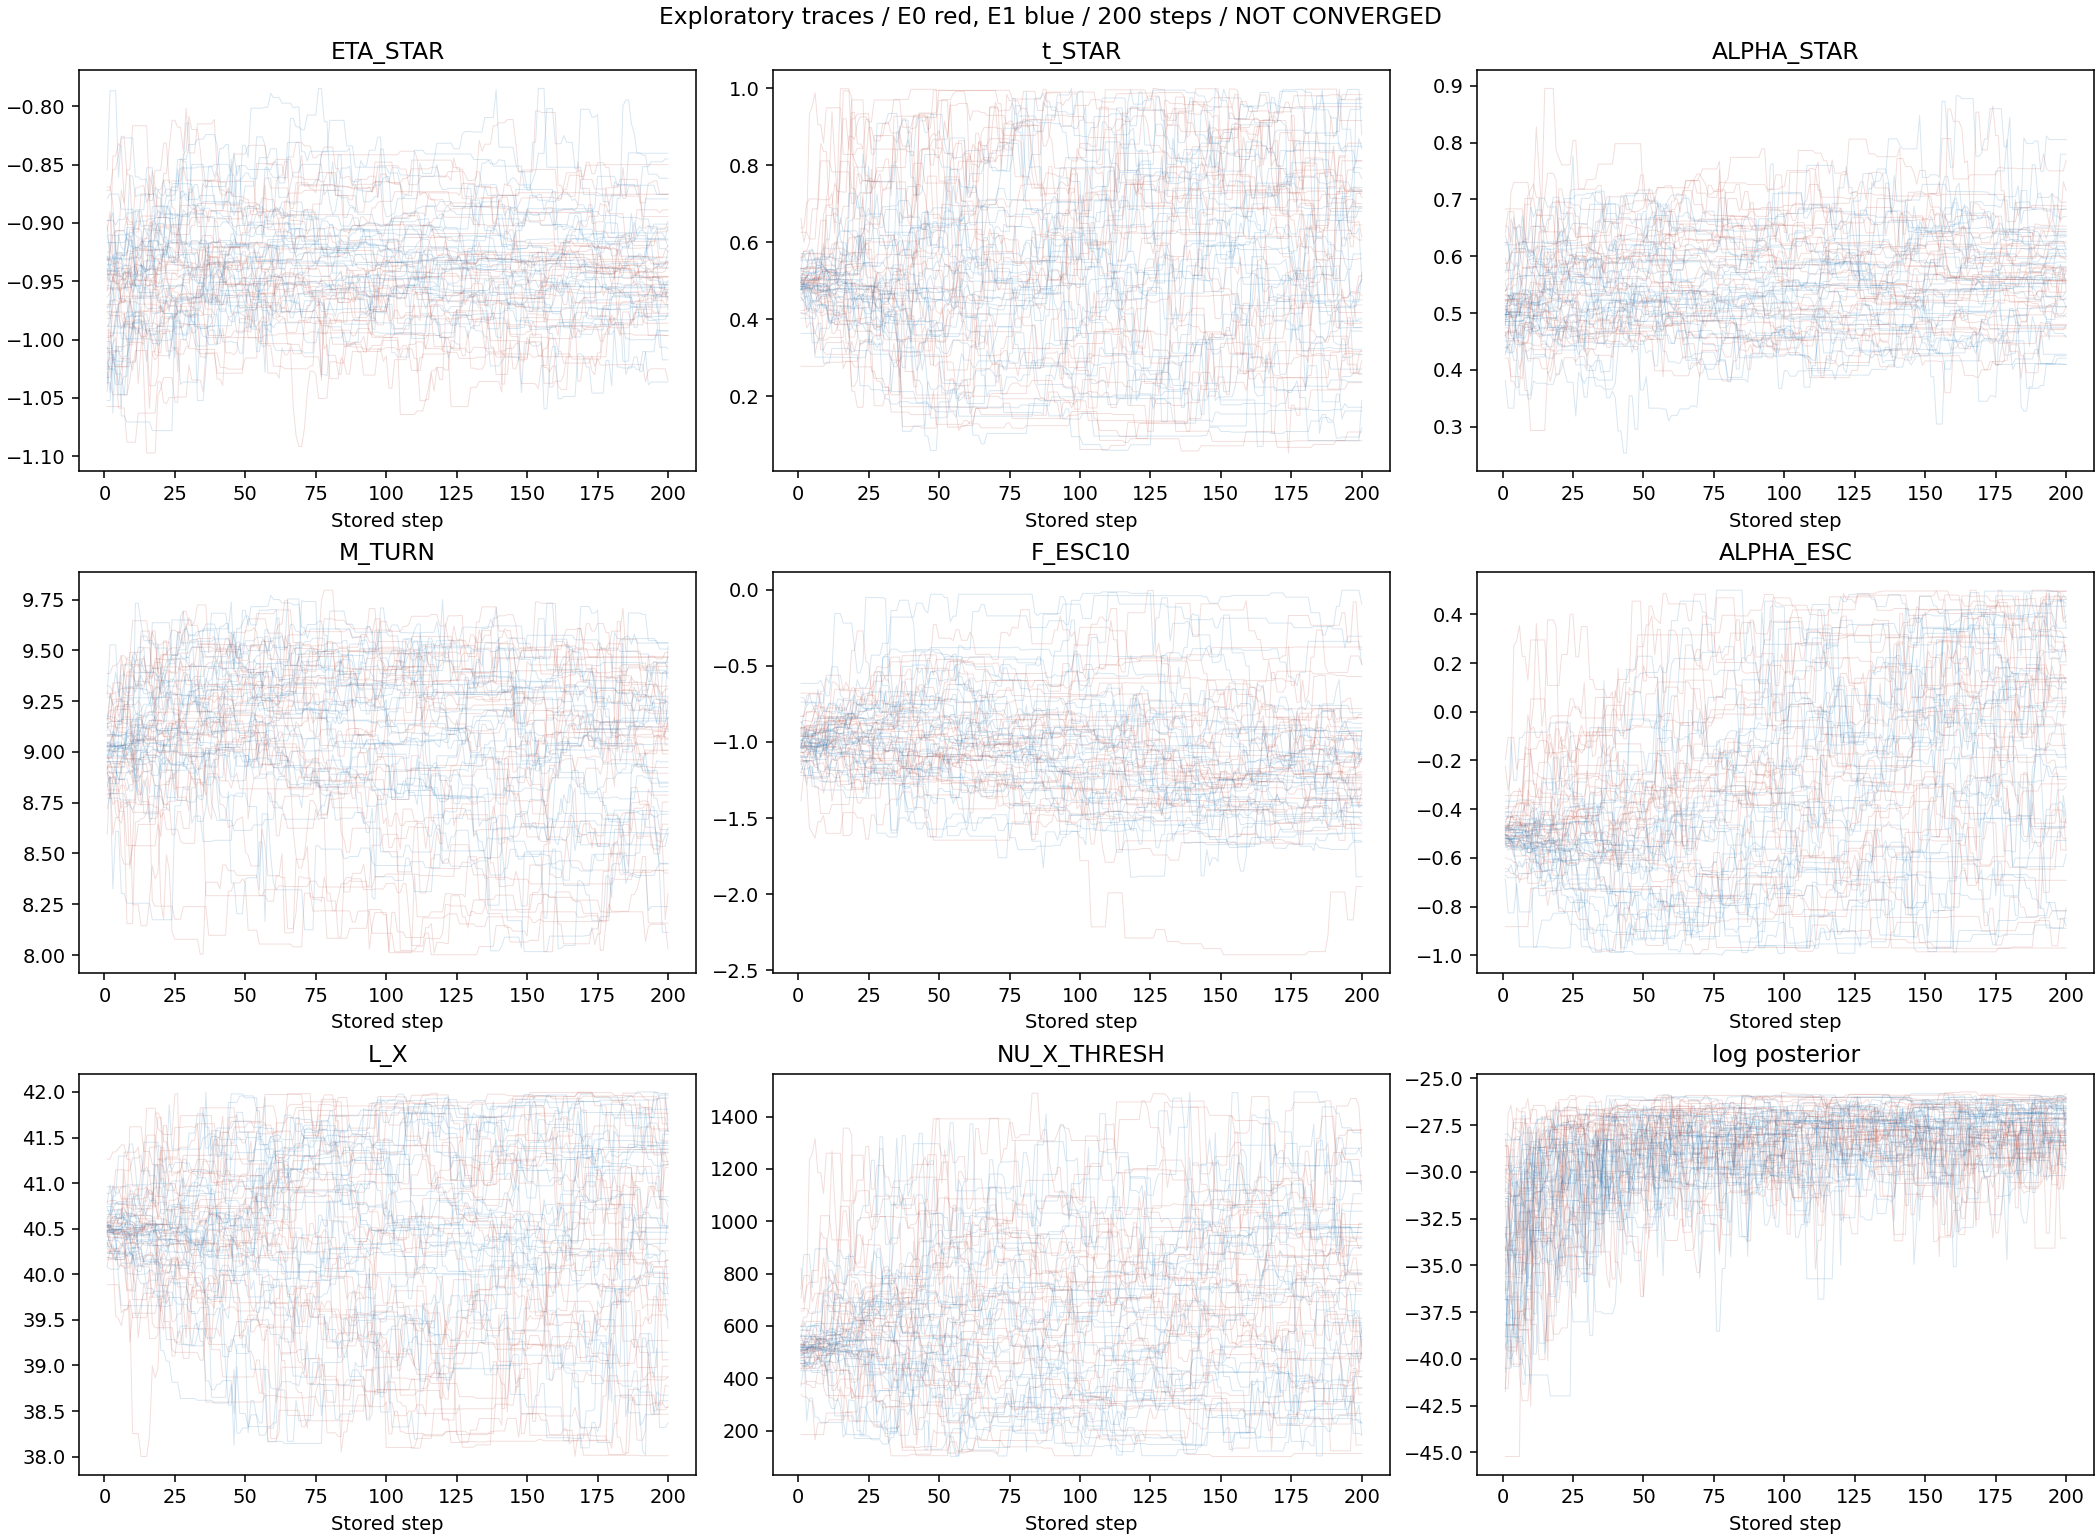
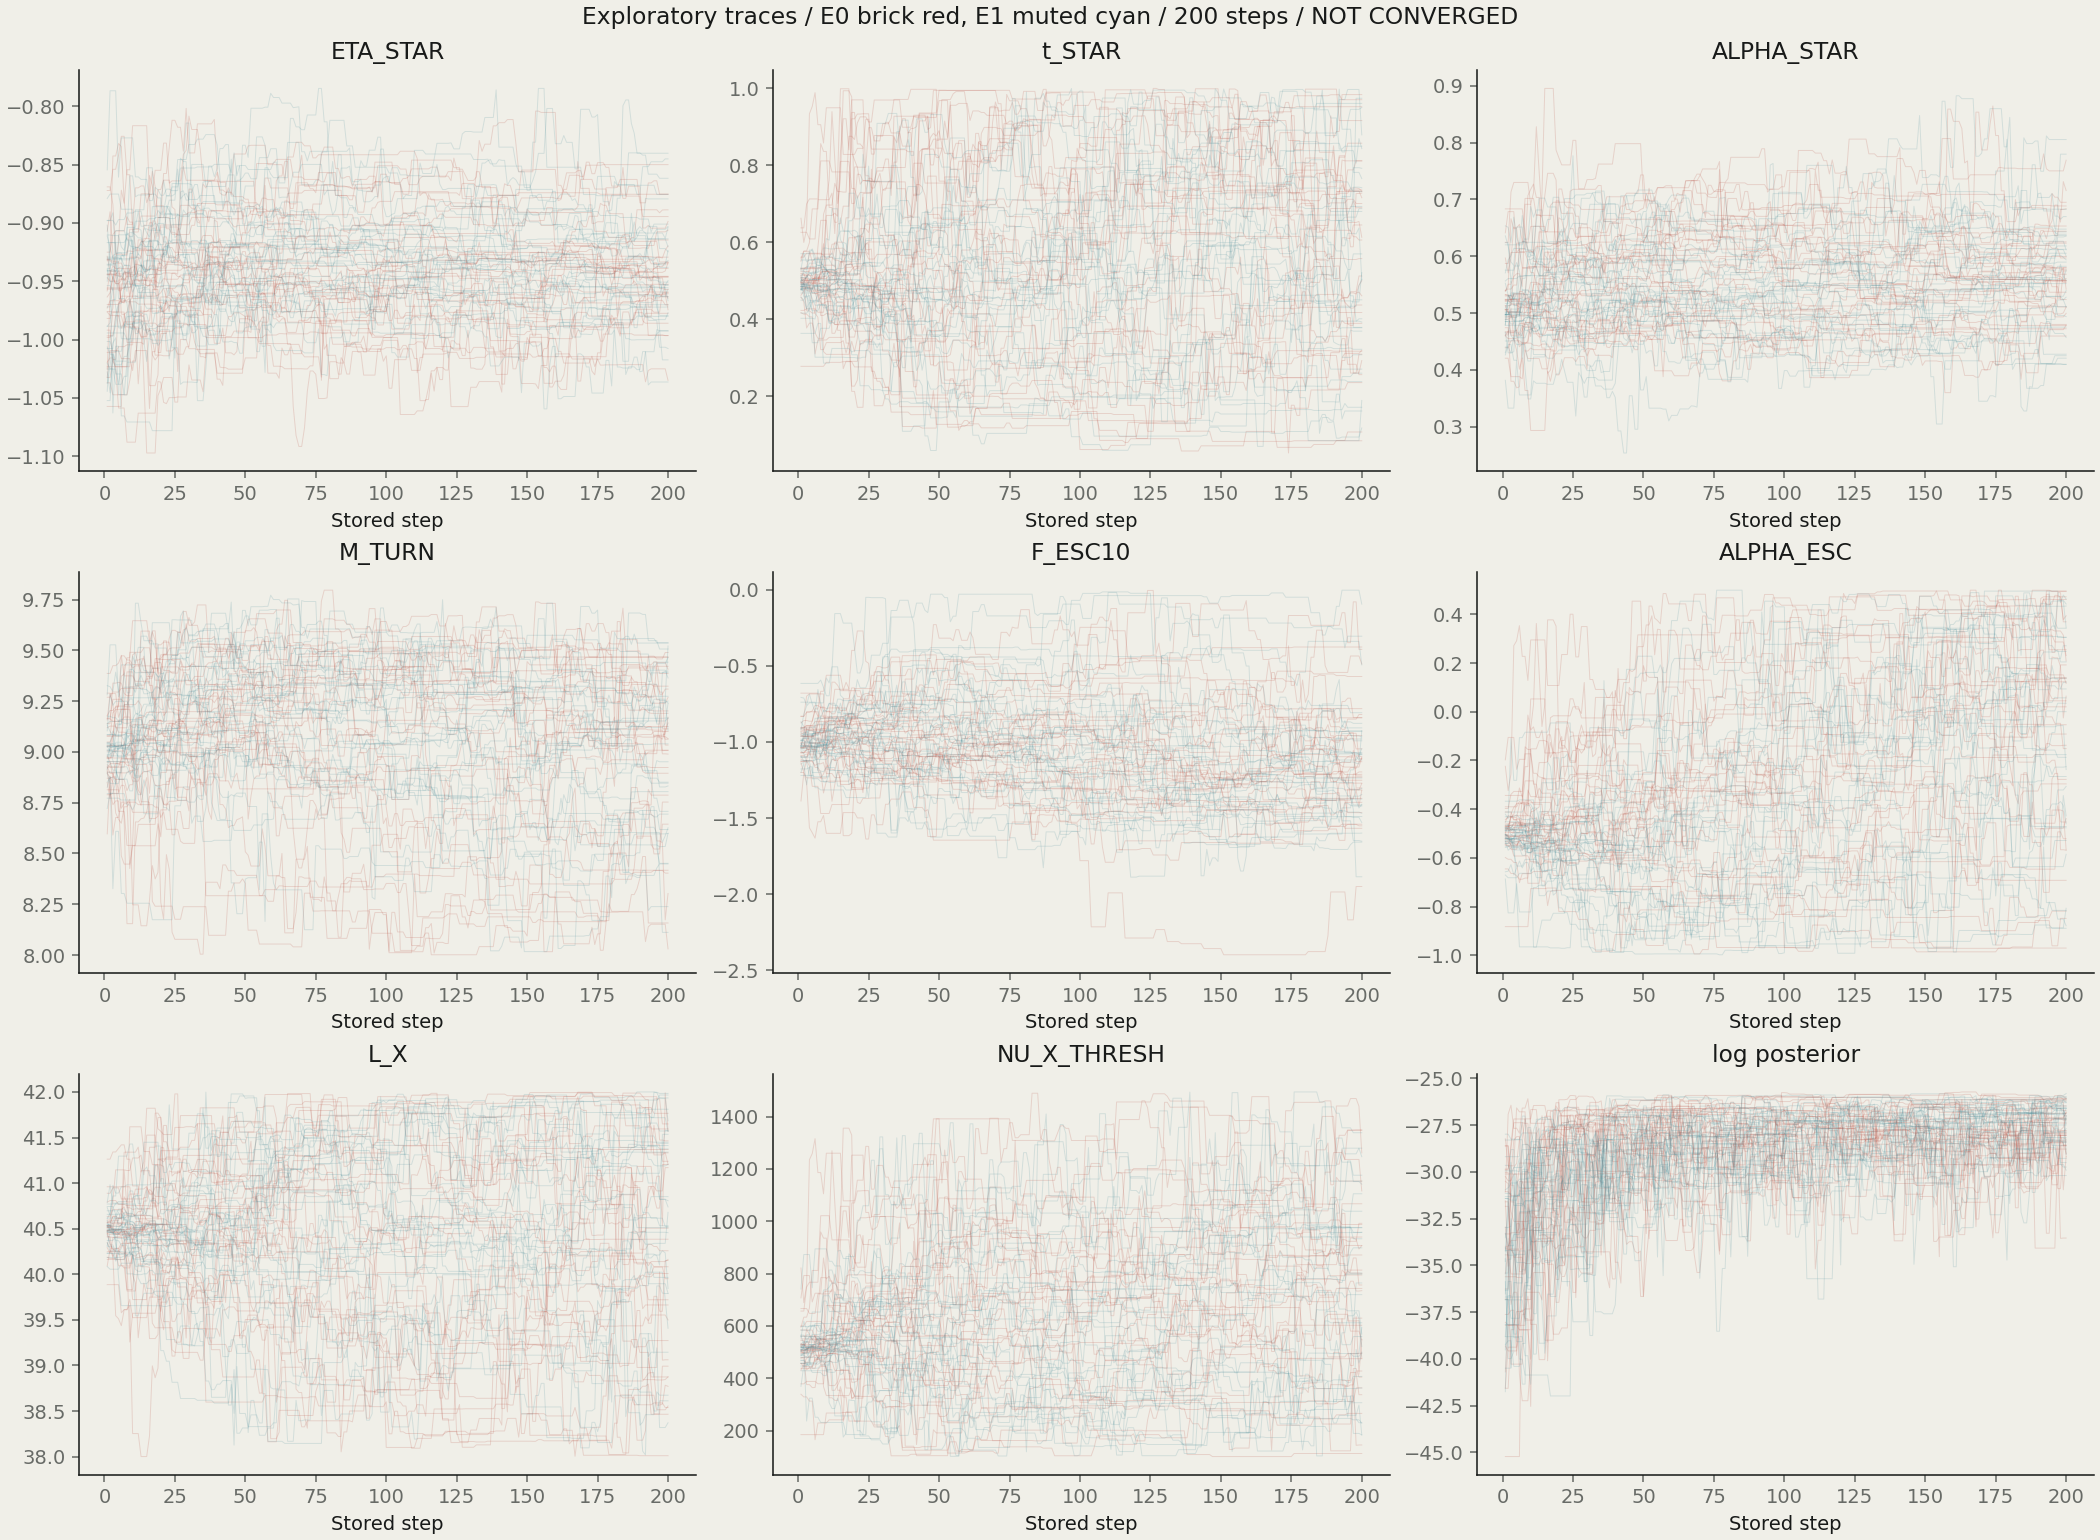
Match joint figures to Atlas colors and keep detailed observables off homepage

Changed region(s): [[0.2786, 0.0, 0.7119, 0.0312], [0.8357, 0.3429, 0.8667, 0.374]]

diff --git a/ms-corner.html b/ms-corner.html
@@ -47,31 +47,31 @@
   <section id="corner" class="ms-card" aria-labelledby="corner-title">
     <div class="section-heading"><div><span class="section-index">03</span><h2 id="corner-title" data-i18n="msSampling">Raw sampling coordinates</h2></div></div>
     <p data-i18n="msCaption">E0 + E1 pooled with equal weight per stored row; repeated states retained. Raw scatter and marginal counts, not validated posterior constraints. η★ = log₁₀(f★,10/t★).</p>
-    <a href="web_data/joint_muv20/corner_eta.png?v=bc91e30e50ac"><img src="web_data/joint_muv20/corner_eta.png?v=bc91e30e50ac" data-ms-alt="msEtaAlt" alt="Eight-parameter joint functional-test samples with MUV > −20; not posterior constraints"></a>
+    <a href="web_data/joint_muv20/corner_eta.png?v=671035eece05"><img src="web_data/joint_muv20/corner_eta.png?v=671035eece05" data-ms-alt="msEtaAlt" alt="Eight-parameter joint functional-test samples with MUV > −20; not posterior constraints"></a>
     <p class="ms-note" data-i18n="msFigureLanguage">Plot annotations remain in English; captions switch with the interface.</p>
   </section>
   <section class="ms-card"><details><summary data-i18n="msNative">Native stellar-efficiency coordinates</summary>
     <p data-i18n="msTransform">Coordinate transformation only: log₁₀ f★,10 = η★ + log₁₀ t★. No resampling or change of weights.</p>
-    <a href="web_data/joint_muv20/corner_native.png?v=9b190adb5ce7"><img loading="lazy" src="web_data/joint_muv20/corner_native.png?v=9b190adb5ce7" data-ms-alt="msNativeAlt" alt="Eight-parameter raw samples in native stellar coordinates"></a>
+    <a href="web_data/joint_muv20/corner_native.png?v=851ed20dc1d1"><img loading="lazy" src="web_data/joint_muv20/corner_native.png?v=851ed20dc1d1" data-ms-alt="msNativeAlt" alt="Eight-parameter raw samples in native stellar coordinates"></a>
   </details></section>
   <section id="pooled-observables" class="ms-card">
     <h2 data-i18n="jointObservables">Pooled LF, optical depth &amp; ionization</h2>
     <p data-i18n="jointObservableNote">LF uses the highest stored joint-likelihood sample. Tau and xi use saved outputs; empirical ranges are not validated credible intervals.</p>
     <p data-i18n="jointSummary">Empirical q16 / median / q84</p>
     <p id="joint-pooled-summary">τ: 0.05378 / 0.05994 / 0.06793 · xi(z=5.9): 0.95788 / 1.00000 / 1.00000</p>
-    <a href="web_data/joint_muv20/pooled_lf.png?v=9b0d96ebc207"><img loading="lazy" src="web_data/joint_muv20/pooled_lf.png?v=9b0d96ebc207" alt="Joint-sample LF at redshifts 6, 7, 8 and 10 with observed LF points and halo-mass markers"></a>
-    <a href="web_data/joint_muv20/pooled_tau_xi.png?v=f6d6b4ec33ed"><img loading="lazy" src="web_data/joint_muv20/pooled_tau_xi.png?v=f6d6b4ec33ed" alt="Pooled optical depth and ionization histories; exploratory only"></a>
+    <a href="web_data/joint_muv20/pooled_lf.png?v=3f6aba875077"><img loading="lazy" src="web_data/joint_muv20/pooled_lf.png?v=3f6aba875077" alt="Joint-sample LF at redshifts 6, 7, 8 and 10 with observed LF points and halo-mass markers"></a>
+    <a href="web_data/joint_muv20/pooled_tau_xi.png?v=59da9f92099d"><img loading="lazy" src="web_data/joint_muv20/pooled_tau_xi.png?v=59da9f92099d" alt="Pooled optical depth and ionization histories; exploratory only"></a>
     <div class="ms-links"><b data-i18n="jointDownloads">Download numerical data</b><a href="web_data/joint_muv20/pooled_observables.json">LF / τ / xi · JSON</a><a href="web_data/joint_muv20/pooled_samples.csv">Samples · CSV</a><a href="web_data/joint_muv20/pooled_xi_history.csv">xi(z) · CSV</a></div>
   </section>
   <section id="diagnostics" class="ms-card" aria-labelledby="diagnostics-title">
     <div class="section-heading"><div><span class="section-index">04</span><h2 id="diagnostics-title" data-i18n="msWhy">Execution is not convergence</h2></div></div>
     <p data-i18n="msDrift">Two exploratory ensembles, including their inherited prefixes once. Completion is not convergence; no credible-interval claim. Numerical-domain proposals occurred. Each line is a walker, not an independent chain.</p>
-    <a href="web_data/joint_muv20/ensemble_traces.png?v=92179dda4c1f"><img loading="lazy" src="web_data/joint_muv20/ensemble_traces.png?v=92179dda4c1f" data-ms-alt="msTraceAlt" alt="Three-step functional-test traces of sixteen walkers"></a>
+    <a href="web_data/joint_muv20/ensemble_traces.png?v=1f364a9a2ea1"><img loading="lazy" src="web_data/joint_muv20/ensemble_traces.png?v=1f364a9a2ea1" data-ms-alt="msTraceAlt" alt="Three-step functional-test traces of sixteen walkers"></a>
     <div class="ms-links"><a href="web_data/joint_muv20/index.json" data-i18n="msProvenance">Provenance &amp; stored samples ↗</a><a href="web_data/joint_muv20/diagnostics.json" data-i18n="msReport">Functional-test report ↗</a></div>
   </section>
   <footer class="ms-footer"><span class="technical-label" data-i18n="msFooter">JOINT / MUV &gt; −20 / EXPLORATORY · NOT CONVERGED</span><a href="index.html" data-i18n="msBack">Return to Signal Atlas ↗</a></footer>
 </main>
-<script src="i18n.js?v=joint-20260928-pooled"></script>
+<script src="i18n.js?v=joint-20260928-pooled&amp;theme=atlas1"></script>
 <script src="ms-corner.js?v=joint-20260928-pooled"></script>
 </body>
 </html>

diff --git a/index.html b/index.html
@@ -244,22 +244,14 @@
             <div><dt data-i18n="mcmcCompute">COEVAL GRID / BOX</dt><dd>128³ / 250 cMpc</dd></div>
           </dl>
           <p class="inference-detail" data-i18n="mcmcJointCaution">200 stored steps × 32 walkers × 2 ensembles after 10 initial burn-in steps each. All 12,800 correlated rows are shown, including the inherited 100-step prefix once. Not converged; no credible-interval claim.</p>
-          <a class="system-action" href="ms-corner.html" data-i18n="mcmcDiagnostics">Coordinates &amp; convergence diagnostics ↗</a>
+          <a class="system-action" href="ms-corner.html#pooled-observables" data-i18n="mcmcDiagnostics">LF, τ, xi · data &amp; diagnostics ↗</a>
         </div>
         <figure class="inference-figure">
-          <a id="mcmc-joint-open" href="web_data/joint_muv20/corner_eta.png?v=bc91e30e50ac" target="_blank" rel="noopener" data-i18n-title="mcmcOpen" title="Open full-resolution figure">
-            <img id="mcmc-joint-image" src="web_data/joint_muv20/corner_eta.png?v=bc91e30e50ac" width="3080" height="3080" loading="lazy" decoding="async" data-i18n-alt="mcmcJointAlt" alt="Eight-parameter joint functional-test samples; not posterior constraints">
+          <a id="mcmc-joint-open" href="web_data/joint_muv20/corner_eta.png?v=671035eece05" target="_blank" rel="noopener" data-i18n-title="mcmcOpen" title="Open full-resolution figure">
+            <img id="mcmc-joint-image" src="web_data/joint_muv20/corner_eta.png?v=671035eece05" width="3080" height="3080" loading="lazy" decoding="async" data-i18n-alt="mcmcJointAlt" alt="Eight-parameter joint functional-test samples; not posterior constraints">
           </a>
           <figcaption><span>FIG / 06B</span><span data-i18n="mcmcJointCaption">E0 + E1 pooled with equal weight per stored row; repeated states retained. Raw scatter and marginal counts, not validated posterior constraints. η★ = log₁₀(f★,10/t★).</span></figcaption>
         </figure>
-      </article>
-      <article class="inference-card" id="pooled-observables">
-        <h3 data-i18n="jointObservables">Pooled LF, optical depth &amp; ionization</h3>
-        <p data-i18n="jointObservableNote">LF uses the highest stored joint-likelihood sample. Tau and xi use saved outputs; empirical ranges are not validated credible intervals.</p>
-        <p data-i18n="jointSummary">Empirical q16 / median / q84</p><p id="joint-pooled-summary">τ: 0.05378 / 0.05994 / 0.06793 · xi(z=5.9): 0.95788 / 1.00000 / 1.00000</p>
-        <figure class="inference-figure"><a href="web_data/joint_muv20/pooled_lf.png?v=9b0d96ebc207"><img loading="lazy" src="web_data/joint_muv20/pooled_lf.png?v=9b0d96ebc207" alt="LF at the highest joint-likelihood sample, z=6,7,8,10"></a></figure>
-        <figure class="inference-figure"><a href="web_data/joint_muv20/pooled_tau_xi.png?v=f6d6b4ec33ed"><img loading="lazy" src="web_data/joint_muv20/pooled_tau_xi.png?v=f6d6b4ec33ed" alt="Pooled tau and xi(z), exploratory"></a></figure>
-        <a class="system-action" href="ms-corner.html#pooled-observables" data-i18n="jointDownloads">Download numerical data</a>
       </article>
       <p class="inference-separation" data-i18n="mcmcSeparation">Separate chains and parameter spaces, all with MUV &gt; −20. LF-only samples four parameters; the joint functional test samples eight at fixed kₚ = 10 and mₛ = 2.5. It cannot establish the effect of adding τ and ξ. Plot annotations remain in English.</p>
     </section>
@@ -309,7 +301,7 @@
       </div>
     </div>
   </section>
-  <script src="i18n.js?v=joint-20260928-pooled&amp;layout=right-pl-1&amp;jointstyle=1&amp;archive=park-pl-merged-1&amp;lfmass=20260923&amp;response=1"></script>
+  <script src="i18n.js?v=joint-20260928-pooled&amp;layout=right-pl-1&amp;jointstyle=1&amp;archive=park-pl-merged-1&amp;lfmass=20260923&amp;response=1&amp;theme=atlas1"></script>
   <script src="mcmc.js?v=joint-20260928-pooled&amp;layout=right-pl-1"></script>
   <script src="lf-mass.js?v=20260923"></script>
   <script src="posterior.js?v=20260926-data1"></script>

diff --git a/i18n.js b/i18n.js
@@ -38,7 +38,7 @@ window.AtlasI18n = (() => {
     mcmcJointData: ["The same 34 LF points with MUV > −20, plus Planck τₑ and McGreer xHI(z = 5.9). ξ = 1 − xHI; this is not a measured full ξ(z) history. No 21-cm likelihood.","相同的 MUV > −20 的 34 个 LF 点，加上 Planck τₑ 与 McGreer xHI(z = 5.9)。ξ = 1 − xHI，不代表观测到完整 ξ(z) 历史。不使用 21 厘米似然。"],
     mcmcCompute: ["COEVAL GRID / BOX","共时模拟网格 / 盒长"],
     mcmcJointCaution: ["200 stored steps × 32 walkers × 2 ensembles after 10 initial burn-in steps each. All 12,800 correlated rows are shown, including the inherited 100-step prefix once. Not converged; no credible-interval claim.","每条链初始 burn-in 10 步后保存 200 步 × 32 walkers，两条链共 12,800 条相关记录。各自包含原有 100 步前缀一次，不重复拼接。尚未收敛，不作可信区间声明。"],
-    mcmcDiagnostics: ["Coordinates & convergence diagnostics ↗","坐标变换与收敛诊断 ↗"],
+    mcmcDiagnostics: ["LF, τ, xi · data & diagnostics ↗","LF、τ、xi · 数据与诊断 ↗"],
     mcmcJointAlt: ["Eight-parameter joint functional-test samples with MUV > −20; not posterior constraints","MUV > −20 的八参数联合功能测试样本；非后验约束"],
     mcmcJointCaption: ["E0 + E1 pooled with equal weight per stored row; repeated states retained. Raw scatter and marginal counts, not validated posterior constraints. η★ = log₁₀(f★,10/t★).", "E0 + E1 按每条已存记录等权合并，保留重复状态。显示原始散点与边缘计数，不是已验证后验约束。η★ = log₁₀(f★,10/t★)。"],
     jointObservables: ["Pooled LF, optical depth & ionization", "合并样本的 LF、光学深度与电离比例"],
